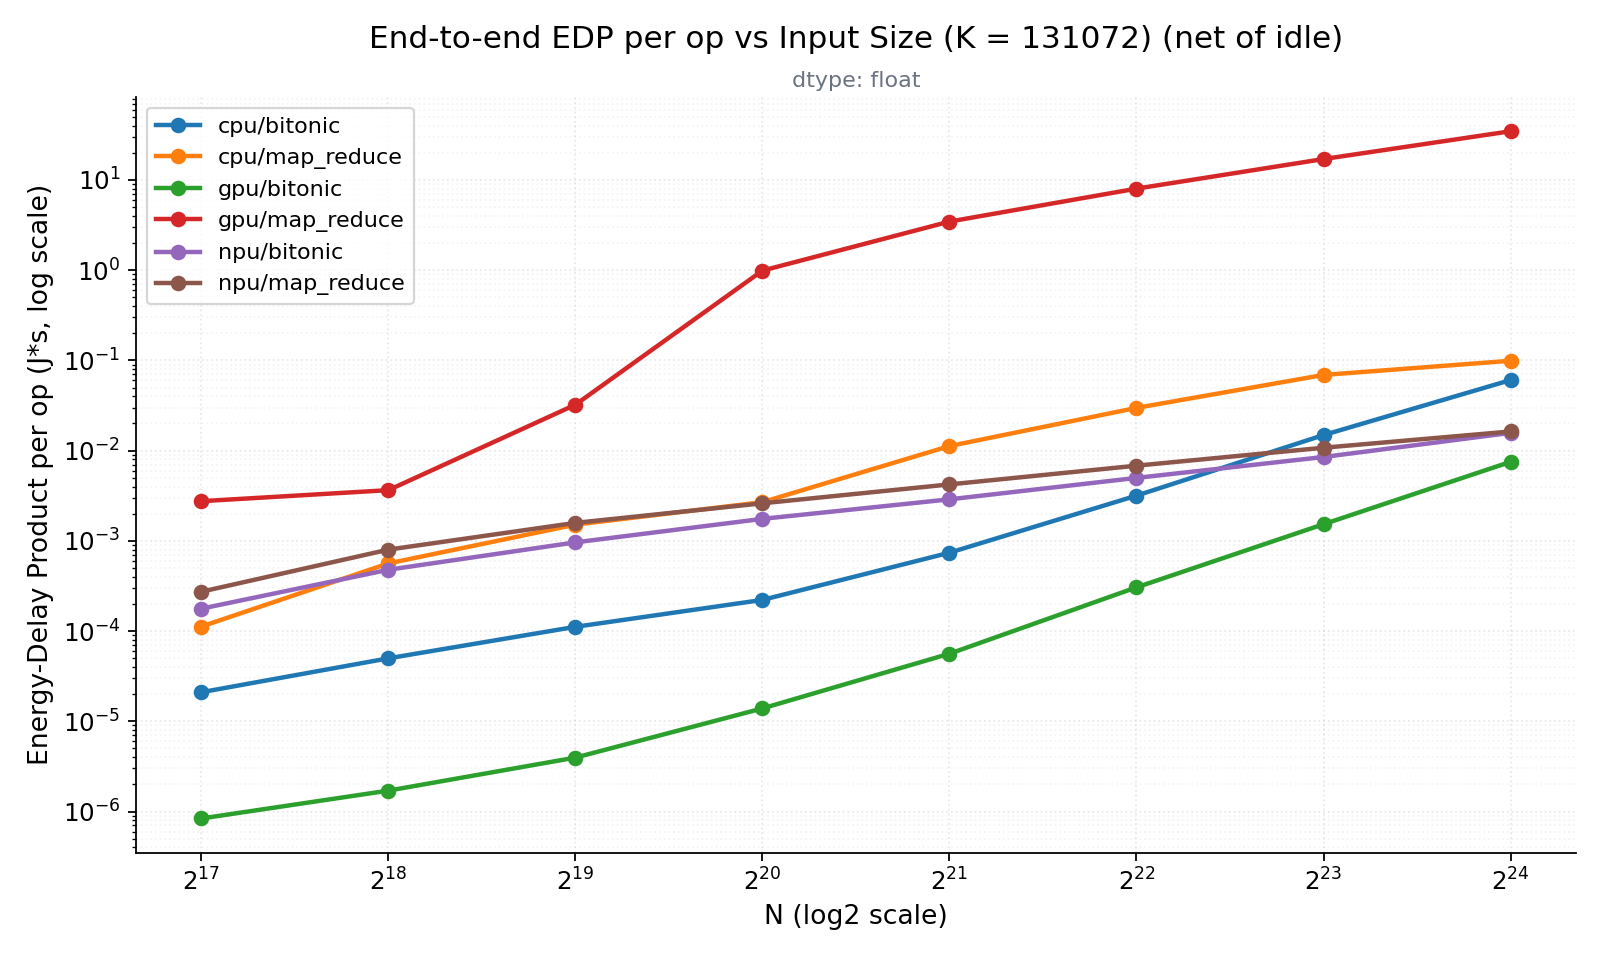
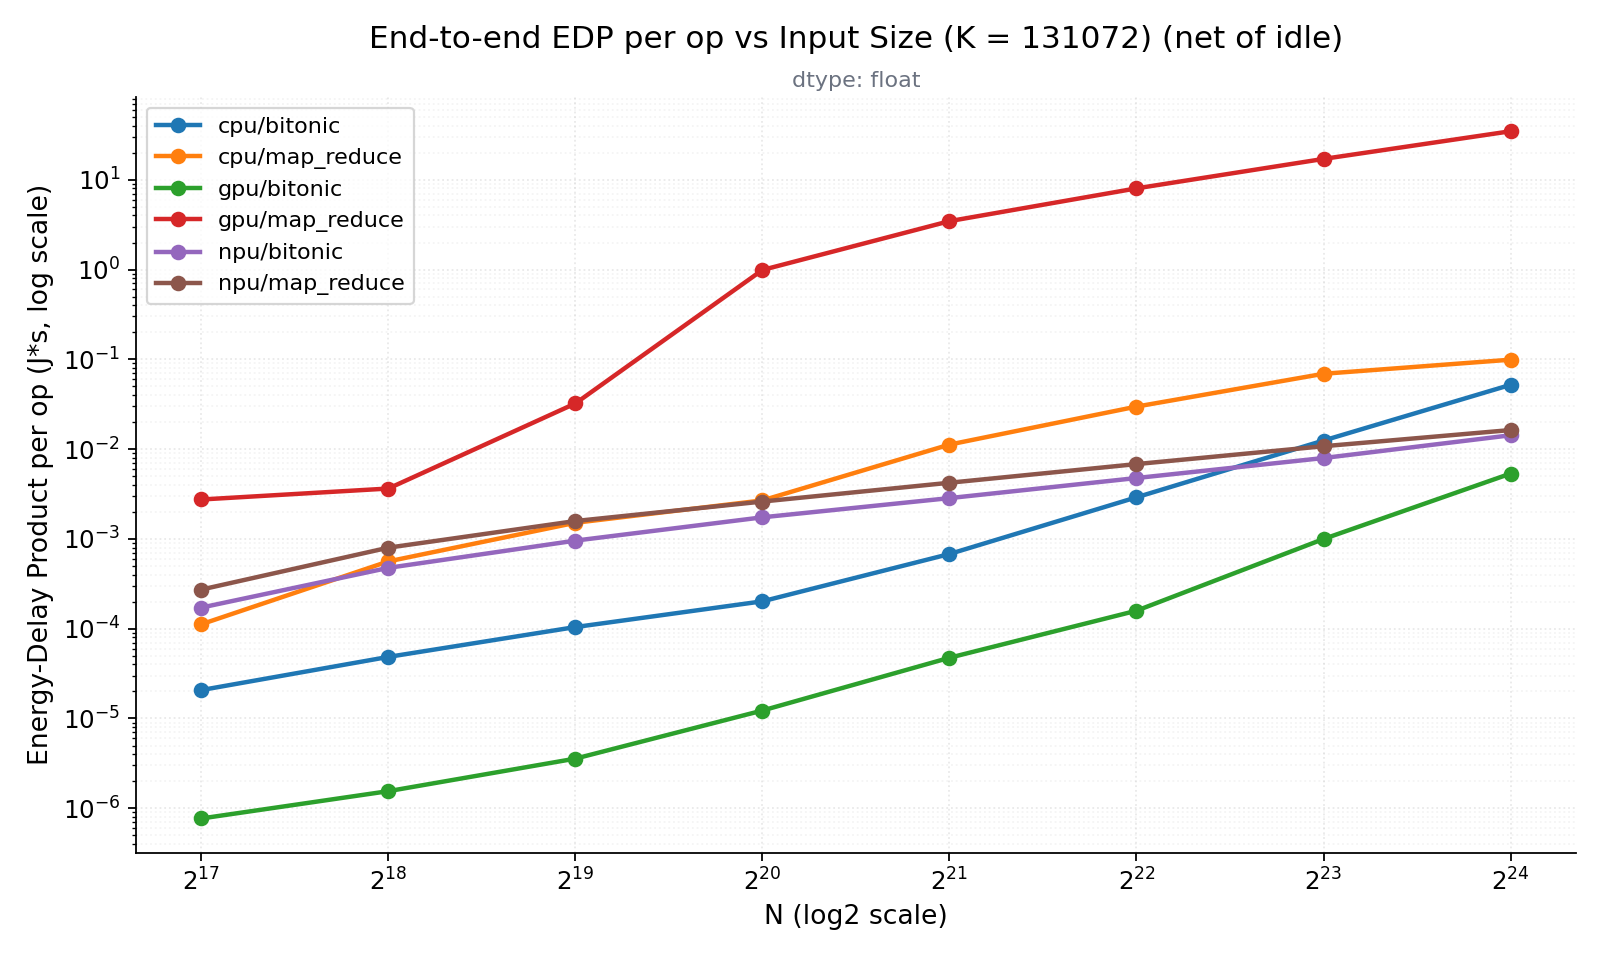
fix(profiler): scope EDP elapsed time to e2e instead of whole measurement loop

diff --git a/doc/thesis/greek/chapters/evaluation.tex b/doc/thesis/greek/chapters/evaluation.tex
@@ -553,7 +553,7 @@ $n/k$ και όχι από την αρχιτεκτονική.
 \tl{map-reduce} στον επεξεργαστή έχει το χαμηλότερο γινόμενο από κάθε άλλη
 υλοποίηση, με την αμέσως επόμενη, που είναι το \tl{map-reduce} της μονάδας
 γραφικών, να υστερεί κατά παράγοντα είκοσι οκτώ και τη χειρότερη κατά
-παράγοντα εβδομήντα οκτώ.
+παράγοντα σαράντα τρία.
 
 Το \tl{map-reduce} στον επεξεργαστή έχει το χαμηλότερο γινόμενο σχεδόν σε
 ολόκληρο το εύρος· η μοναδική εξαίρεση είναι το μικρότερο μέγεθος του σχήματος,

diff --git a/doc/thesis/english/chapters/evaluation.tex b/doc/thesis/english/chapters/evaluation.tex
@@ -530,7 +530,7 @@ The energy-delay product condenses the two criteria into one and rewards
 implementations that are simultaneously fast and economical. The resulting
 ranking is the clearest in the entire chapter. CPU map-reduce has the lowest
 product of any implementation, with the next-lowest, GPU map-reduce, trailing
-by a factor of twenty-eight, and the worst by a factor of seventy-eight.
+by a factor of twenty-eight, and the worst by a factor of forty-three.
 
 CPU map-reduce is the lowest-product implementation across almost the entire
 range; the sole exception is the smallest size shown, where its net energy

diff --git a/bench/profiler/src/plotting/common.py b/bench/profiler/src/plotting/common.py
@@ -194,10 +194,10 @@ def select_energy_joules(rec, metric: str, scope: str = "e2e") -> float | None:
 
 def select_elapsed_seconds(rec) -> float | None:
     ops = getattr(rec, "bench_ops", 1) or 1
-    loop_s = getattr(rec, "inproc_loop_seconds", None)
-    if loop_s:
+    e2e_s = getattr(rec, "inproc_e2e_seconds", None)
+    if e2e_s:
         iterations = getattr(rec, "inproc_iterations", None) or ops
-        return loop_s / iterations
+        return e2e_s / iterations
     if rec.elapsed_seconds is None:
         return None
     return rec.elapsed_seconds / ops
